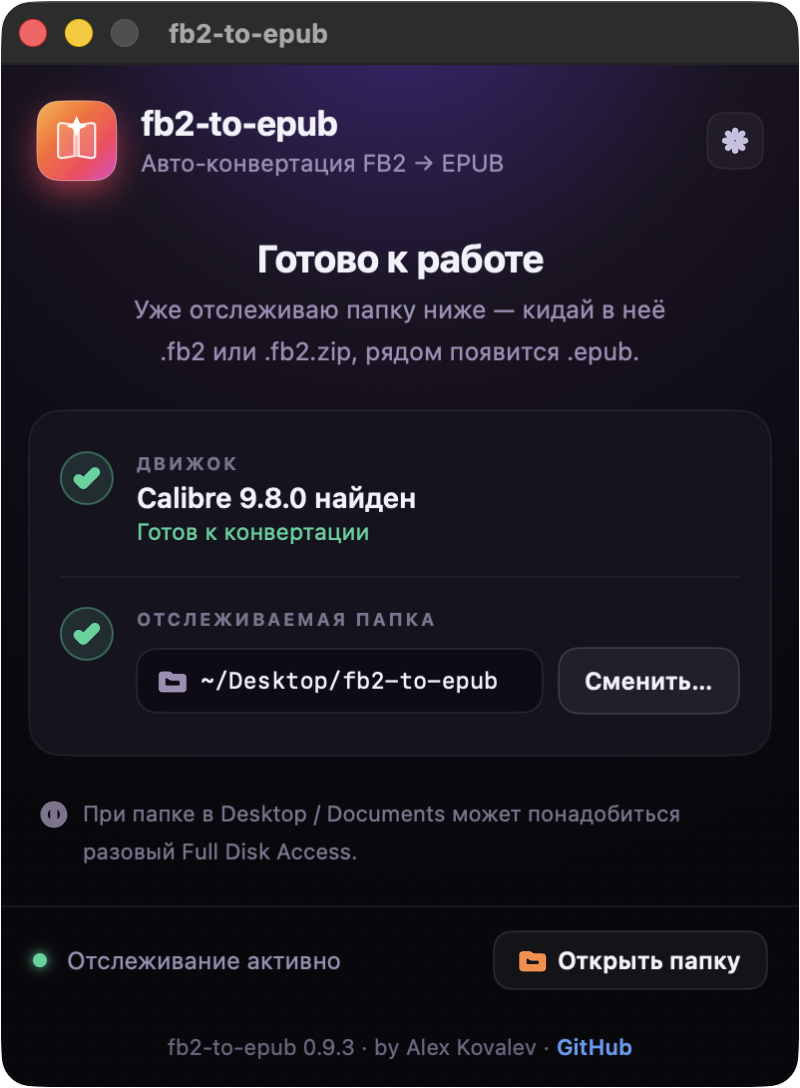
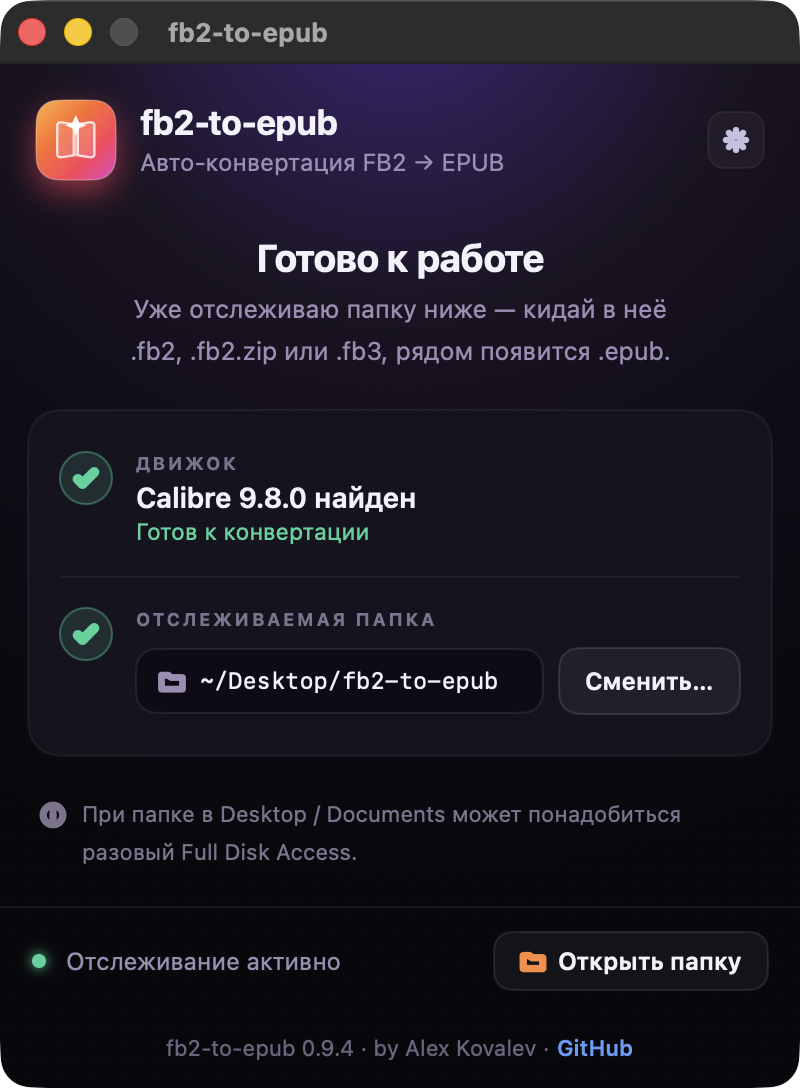
feat(ui): экран первого запуска упоминает FB3
- SetupView: онбординг-текст «кидай .fb2 или .fb2.zip» → «.fb2, .fb2.zip или .fb3» —
  новый пользователь сразу видит, что FB3 тоже конвертируется в EPUB.
- docs/screenshots/setup.png — пересняты (текст с .fb3, версия 0.9.4).

diff --git a/app/SetupView.swift b/app/SetupView.swift
@@ -281,7 +281,7 @@ struct SetupView: View {
                 .font(Tokens.F.welcomeH2)
                 .foregroundColor(Tokens.C.textPrimary)
                 .trackingCompat(Tokens.Track.welcomeH2)
-            Text("Уже отслеживаю папку ниже — кидай в неё\n.fb2 или .fb2.zip, рядом появится .epub.")
+            Text("Уже отслеживаю папку ниже — кидай в неё\n.fb2, .fb2.zip или .fb3, рядом появится .epub.")
                 .font(Tokens.F.welcomeSub)
                 .foregroundColor(Tokens.C.textSecondary)
                 .multilineTextAlignment(.center)
